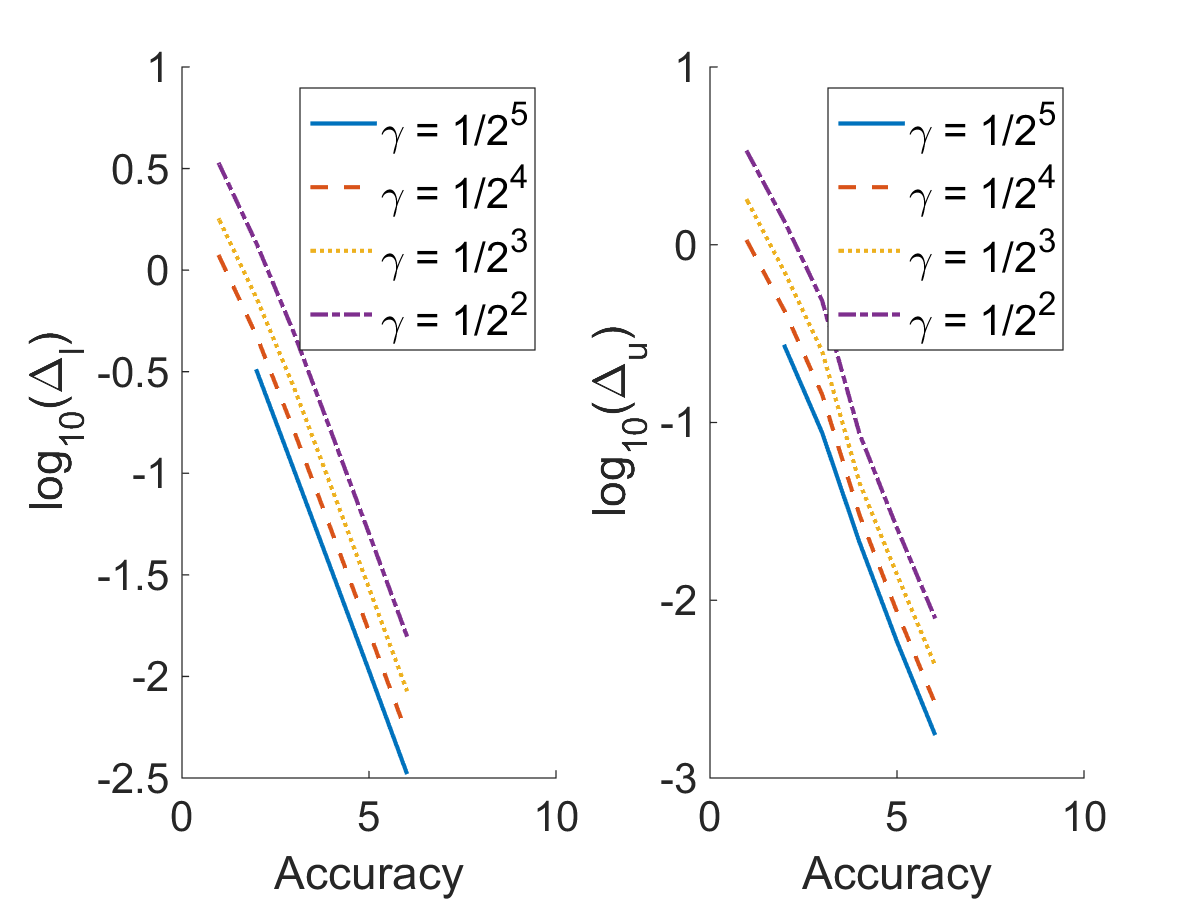
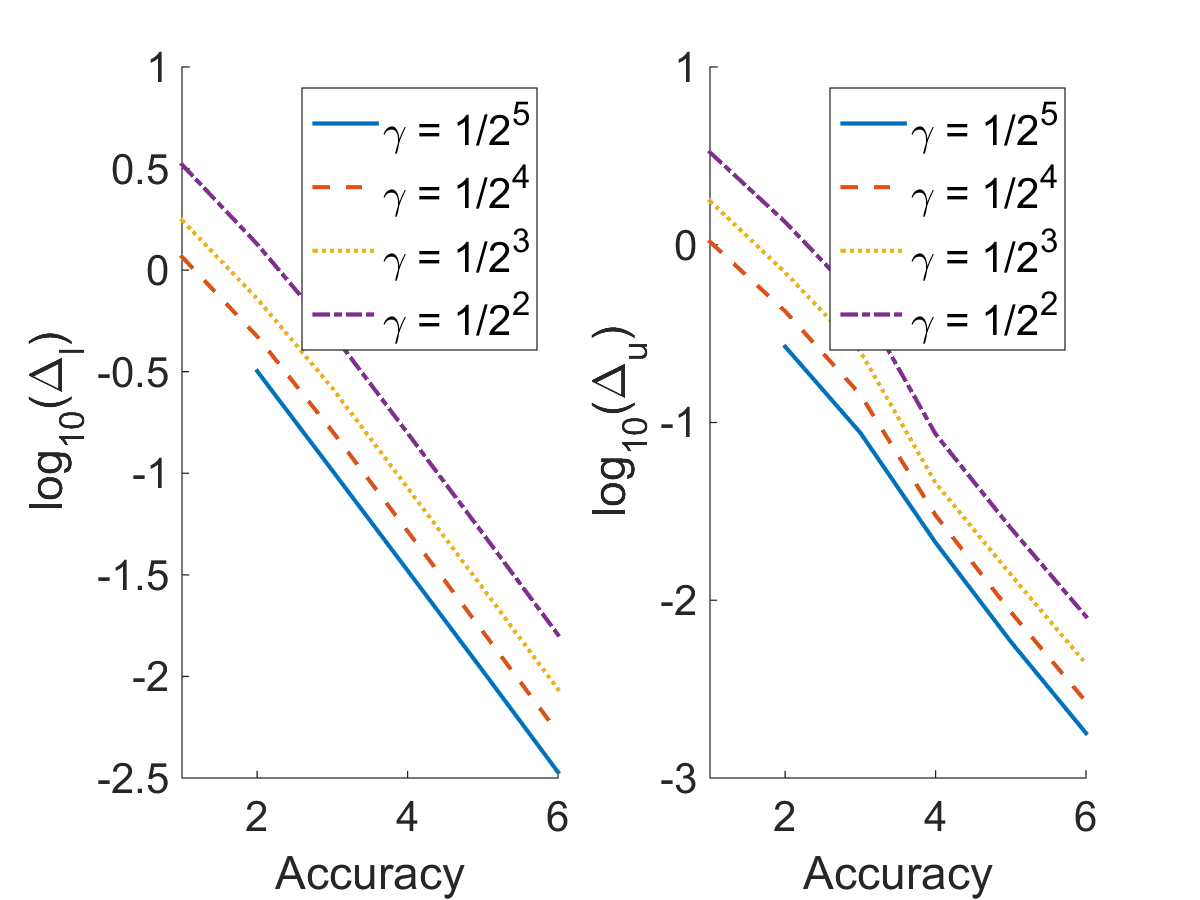
tweak figs

diff --git a/Experiments/Atomic/Timing/timing.m b/Experiments/Atomic/Timing/timing.m
@@ -8,7 +8,7 @@ epsi_array = linspace(1,K,K);
 t = 1;
 w = 1;
 rng(0)
-times = zeros(length(epsi_array),2);
+% times = zeros(length(epsi_array),2);
 errors = zeros(length(epsi_array),2);
 gamma_plus = (1+sqrt(gamma))^2;
 gamma_minus = (1-sqrt(gamma))^2;
@@ -63,7 +63,7 @@ xlim([1 length(times(:,1))]);
 
 %xlabel('Correct Sig. Digits Requested');
 %ylabel('Log10 Running time');
-h = legend('Atomic','FP','location','Best');
+h = legend('Atomic','FPA','location','Best');
 set(h,'FontSize',20);
 
 
@@ -80,7 +80,7 @@ xlim([1 length(times(:,1))]);
 
 %xlabel('Correct Sig Digits  Requested');
 %ylabel('Correct Sig Digits  Produced');
-%h = legend('Atomic','FP','location','Best');
+%h = legend('Atomic','FPA','location','Best');
 %set(h,'FontSize',20);
 
 %% save plot
@@ -149,7 +149,7 @@ ylabel('t(\epsilon)');
 xlim([1 length(times(:,1))]);
 %xlabel('Correct Sig. Digits Requested');
 %ylabel('Log10 Running time');
-%h = legend('Atomic','FP','location','Best');
+%h = legend('Atomic','FPA','location','Best');
 %set(h,'FontSize',20);
 
 
@@ -166,7 +166,7 @@ xlim([1 length(times(:,1))]);
 
 %xlabel('Correct Sig Digits  Requested');
 %ylabel('Correct Sig Digits  Produced');
-h = legend('Atomic','FP','location','NorthEast');
+h = legend('Atomic','FPA','location','NorthEast');
 set(h,'FontSize',20);
 
 

diff --git a/Experiments/Atomic/Support identification/test_support_identification.m b/Experiments/Atomic/Support identification/test_support_identification.m
@@ -67,6 +67,7 @@ ylabel('log_{10}(\Delta_l)');
 set(gca,'fontsize',20)
 h = legend('\gamma = 1/2^5','\gamma = 1/2^4','\gamma = 1/2^3','\gamma = 1/2^2');
 set(h,'FontSize',20);
+xlim([min(-log10(epsi_array)), max(-log10(epsi_array))]);
 
 subplot(1,2,2), hold on
 h = plot(-log10(epsi_array),log10(u_err(:,1)),'linewidth',2); set(h,'LineStyle',a{1});
@@ -78,6 +79,7 @@ ylabel('log_{10}(\Delta_u)');
 set(gca,'fontsize',20)
 h = legend('\gamma = 1/2^5','\gamma = 1/2^4','\gamma = 1/2^3','\gamma = 1/2^2');
 set(h,'FontSize',20);
+xlim([min(-log10(epsi_array)), max(-log10(epsi_array))]);
 
 %%
 filename = sprintf( './identify_endpoints_support.png');
